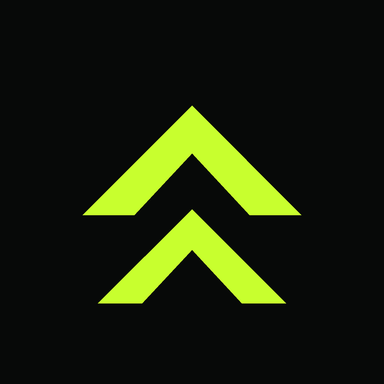
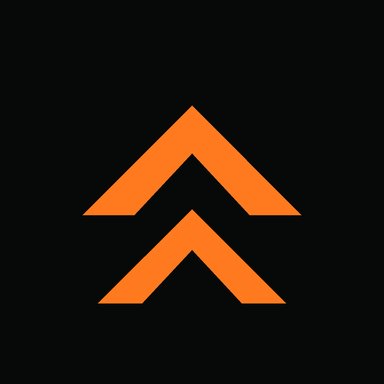
Orange, not yellow, and the score glows instead of sitting in a form
The lime experiment ends on Thulaib's call. The member app returns to Total
Uplift orange, #FF7A1F rather than the staff surface's redder hex, because on a
dark canvas the brand and the danger red must never blur. The lime hexes join
the DEAD list beside the first orange era, so neither identity can leak back.

The knock-on a palette swap always misses: coral could no longer mean attention
one step away from an orange brand, exactly as mint could not mean success
beside green. Attention is now true amber, and the status hues inside the
checks moved with it.

The score card gets the premium treatment without resurrecting the circle or
the combined number it carried: an ember aura breathing from the corner, the
Move bar burning dark orange into light with a soft glow, Fuel and Rest at
lower flame, category still told by intensity and never by a status hue. The
climb itself is now gradient-stroked with a glow, and the Your-progress-so-far
doorway draws it compact in the space its second line of copy used to spend,
including the line that still promised a 90 day grid that retired days ago.

All 18 icon assets regenerated in orange from the same vector.

One check was stranded by its own hard-coded rgb: Hero-accent-on-the-action was
pinned to the lime value. It now resolves the live brand token, so the next
identity change cannot strand it again.

282 checks, green twice at 390px and twice at 1280px in both tracking modes.
guard.py PASS, gate.js machine checks PASS.

Changed region(s): [[0.2188, 0.2812, 0.7812, 0.5625], [0.25, 0.5312, 0.75, 0.8125]]

diff --git a/member/index.html b/member/index.html
@@ -11,7 +11,7 @@
 <link rel="apple-touch-icon" href="apple-touch-icon.png">
 <link rel="icon" href="favicon.svg" type="image/svg+xml">
 <link rel="icon" href="favicon-32.png" sizes="32x32" type="image/png">
-<link rel="mask-icon" href="icon-mono.svg" color="#C8FF2E">
+<link rel="mask-icon" href="icon-mono.svg" color="#FF7A1F">
 <meta name="apple-mobile-web-app-capable" content="yes">
 <meta name="apple-mobile-web-app-status-bar-style" content="black-translucent">
 <meta name="apple-mobile-web-app-title" content="Total Uplift">
@@ -41,10 +41,12 @@
 --sat:env(safe-area-inset-top,0px);
 --sab:env(safe-area-inset-bottom,0px);
 /* ── BRAND (swap these per client) ───────────────────────── */
---brand:#C8FF2E;            /* the one accent: Total Uplift red-orange */
---brand-dark:#A9E800;
+--brand:#FF7A1F;            /* the one accent: Total Uplift orange. Warmer and
+   one step further from red than the staff surface's, deliberately: on a dark
+   canvas "start" and "error" must never blur. */
+--brand-dark:#E85D0A;
 --ink-deep:#0E141B;         /* Total Uplift navy, the app base */
---on-accent:#0A0D08;
+--on-accent:#1C0A03;
 /* ── DERIVED (do not edit) ───────────────────────────────── */
 --brand-soft:color-mix(in srgb,var(--brand) 16%,transparent);
 --brand-glow:color-mix(in srgb,var(--brand) 30%,transparent);
@@ -59,10 +61,12 @@
    fine on a monitor and not fine on a phone held at arm's length in a gym. */
 /* lime measures ~17:1 on the canvas, so unlike the old orange it needs no
    separate text token. It is legible everywhere it appears. */
---brand-txt:#C8FF2E;--txt:#F4F7F3;--muted:#A6AFA8;--faint:#8A938C;
+--brand-txt:#FF8E4D;--txt:#F4F7F3;--muted:#A6AFA8;--faint:#8A938C;
 --line:rgba(255,255,255,.08);--line2:rgba(255,255,255,.05);
 --green:#4FD7B0;--green-soft:rgba(34,181,115,.16);
---amber:#FF826D;--amber-soft:rgba(224,161,27,.16);
+/* AMBER, not coral. Coral beside an orange brand is the same collision mint
+   made beside green: a status hue one step from the accent. */
+--amber:#F7B23B;--amber-soft:rgba(247,178,59,.16);
 --danger:#FF5A4E;--danger-soft:rgba(224,80,58,.16);
 --radius:18px;--r-md:14px;--r-sm:10px;
 --ease:cubic-bezier(.16,1,.3,1);
@@ -122,7 +126,20 @@ input,textarea{font-family:inherit;color:var(--txt)}
 .bar .fi{height:100%;border-radius:99px;transition:width .7s var(--ease)}
 .bar .bn{font-size:11.5px;color:var(--faint);margin-top:5px;line-height:1.45}
 /* the ring is gone, so the indicators take the whole card */
-.score-wrap{display:block}
+.score-wrap{display:block;position:relative;z-index:1}
+/* THE EMBER AURA. One breath of brand light, from the corner, behind everything
+   on the card. Decoration lives on the card, never on the data. */
+.td-score{position:relative;overflow:hidden}
+.td-score::before{content:'';position:absolute;top:-70px;left:-40px;width:260px;height:220px;
+ background:radial-gradient(closest-side,var(--brand-glow),transparent 70%);
+ pointer-events:none;opacity:.8}
+.td-score>*{position:relative;z-index:1}
+/* the flame at three strengths: category by intensity, never by a status hue */
+.bar .fi.move{background:linear-gradient(90deg,var(--brand-dark),var(--brand) 55%,#FFC08A);
+ box-shadow:0 0 14px var(--brand-glow)}
+.bar .fi.fuel{background:linear-gradient(90deg,color-mix(in srgb,var(--brand-dark) 66%,var(--surface-3)),color-mix(in srgb,var(--brand) 66%,var(--surface-3)));
+ box-shadow:0 0 10px color-mix(in srgb,var(--brand) 14%,transparent)}
+.bar .fi.rest{background:linear-gradient(90deg,color-mix(in srgb,var(--brand-dark) 38%,var(--surface-3)),color-mix(in srgb,var(--brand) 38%,var(--surface-3)))}
 /* a hint, not a primary action: the hero above it is the primary action.
    Still a full 44px target. */
 .nextact{display:flex;align-items:center;gap:10px;width:100%;min-height:44px;margin-top:2px;
@@ -455,6 +472,8 @@ input,textarea{font-family:inherit;color:var(--txt)}
 .lookback .lt{font-size:14px;font-weight:750}
 .lookback .ls{font-size:12px;color:var(--muted);margin-top:4px;line-height:1.5}
 .lookback .lg{margin-left:auto;color:var(--faint);flex-shrink:0}
+.lookback .lpath{margin-top:2px;line-height:0}
+.lookback .lpath .upath.cmp{height:20px}
 
 /* ── PLAN: ONE EXERCISE AT A TIME ─────────────────────────── */
 /* collapse is PRESENTATIONAL. Everything still renders, so every action and
@@ -513,6 +532,7 @@ input,textarea{font-family:inherit;color:var(--txt)}
 
 /* ── THE UPLIFT PATH ──────────────────────────────────────── */
 .upath{width:100%;height:110px;display:block;overflow:visible}
+.upath .climb{filter:drop-shadow(0 0 5px var(--brand-glow))}
 .upath.cmp{height:38px}
 .upcap{font-size:11.5px;color:var(--muted);line-height:1.5;margin-top:10px}
 .upwrap{padding:4px 0}
@@ -1855,10 +1875,14 @@ function renderLookback(){
  const el=document.getElementById('tdLookback');if(!el)return;
  const m=DB.get('member');
  const shots=(DB.get('shots')||[]).length;
+ /* the doorway to your progress DRAWS your progress, in the space its second
+    line of copy used to spend on words. And that line still said "90 day
+    grid", which retired when the Path arrived. */
  el.innerHTML='<span style="min-width:0;flex:1">'
   +'<span class="lt">Your progress so far</span>'
-  +'<div class="ls">'+m.day+' days in'+(shots?', '+shots+' progress photos':'')
-  +', and the whole 90 day grid. All in Stats.</div></span>'
+  +'<div class="ls">Day '+m.day+' of '+CFG.programme.days
+   +(shots?' · '+shots+' photo'+(shots===1?'':'s'):'')+' · all in Stats</div>'
+  +'<div class="lpath">'+upliftPath(true)+'</div></span>'
   +'<span class="lg">'+I.arrow+'</span>';
 }
 function renderProvenance(){
@@ -1889,12 +1913,11 @@ function renderToday(){
     programme itself had prescribed, and it took two nested weightings over
     four inputs to explain. Three plain counts replace it. */
  const ring=document.getElementById('tdRing');if(ring)ring.remove();
- const shade={move:'var(--brand)',
-   fuel:'color-mix(in srgb,var(--brand) 68%,var(--surface-3))',
-   rest:'color-mix(in srgb,var(--brand) 40%,var(--surface-3))'};
- /* the number on the row is WHAT WAS COUNTED, never a mark out of a hundred */
+ /* the number on the row is WHAT WAS COUNTED, never a mark out of a hundred.
+    The fill is a class, not an inline colour, so the flame gradient and its
+    glow live in one place in the stylesheet. */
  const bar=x=>'<div class="bar"><div class="t"><span>'+x.n+'</span><b>'+x.v+'</b></div>'
-  +'<div class="tr"><div class="fi" style="width:'+x.pct+'%;background:'+shade[x.k]+'"></div></div>'
+  +'<div class="tr"><div class="fi '+x.k+'" style="width:'+x.pct+'%"></div></div>'
   +(x.note?'<div class="bn">'+x.note+'</div>':'')+'</div>';
  /* CATEGORY, not status: the accent at three strengths tells the three apart
     without any of them claiming good or bad. Rest is simply absent when
@@ -2118,7 +2141,15 @@ function upliftPath(compact){
  g+='<path d="M'+last[0].toFixed(1)+' '+last[1].toFixed(1)+' L'+x(n-1).toFixed(1)+' '+last[1].toFixed(1)+'"'
   +' fill="none" stroke="var(--line2)" stroke-width="1.4" stroke-dasharray="2 3"'
   +' vector-effect="non-scaling-stroke"/>';
- g+='<path d="'+line+'" fill="none" stroke="var(--brand)" stroke-width="2"'
+ /* the climb burns dark into light along its length, and carries a soft glow.
+    The id is unique per draw: two paths on one screen sharing a gradient id
+    would silently paint one of them black. */
+ const uid='upg'+Math.floor((typeof performance!=='undefined'?performance.now():0)*10)%100000+Math.floor(W)+(compact?'c':'f');
+ g='<defs><linearGradient id="'+uid+'" x1="0" y1="0" x2="1" y2="0">'
+  +'<stop offset="0" stop-color="var(--brand-dark)"/>'
+  +'<stop offset=".62" stop-color="var(--brand)"/>'
+  +'<stop offset="1" stop-color="#FFC08A"/></linearGradient></defs>'+g;
+ g+='<path class="climb" d="'+line+'" fill="none" stroke="url(#'+uid+')" stroke-width="2"'
   +' stroke-linejoin="round" stroke-linecap="round" vector-effect="non-scaling-stroke"/>';
  if(!compact){
   /* milestones on the axis, labelled, so the climb has landmarks */
@@ -3014,7 +3045,7 @@ function receiptFor(month){
  const mem=DB.get('member');
  const w=window.open('','_blank');
  if(!w){toast('Allow pop-ups to open your receipt');return;}
- const brand=getComputedStyle(document.documentElement).getPropertyValue('--brand').trim()||'#C8FF2E';
+ const brand=getComputedStyle(document.documentElement).getPropertyValue('--brand').trim()||'#FF7A1F';
  w.document.write('<!doctype html><html><head><meta charset="utf-8"><meta name="viewport" content="width=device-width,initial-scale=1">'
  +'<title>Receipt '+month+'</title><style>*{margin:0;box-sizing:border-box;font-family:Arial,Helvetica,sans-serif}'
  +'body{background:#eee;color:#1a1a1a;padding:18px}.p{max-width:520px;margin:0 auto;background:#fff;padding:26px}'
@@ -4401,8 +4432,15 @@ async function runSelfTest(){
    const bgs=getComputedStyle(sess).backgroundColor+getComputedStyle(sess).backgroundImage;
    ok('Hero: the panel is a dark card, not a lime block',bgs.indexOf('200, 255, 46')<0,bgs.slice(0,60));
    const goBtn=sess.querySelector('.go');
-   ok('Hero: the lime is spent on the ACTION',
-     !!goBtn&&getComputedStyle(goBtn).backgroundColor.indexOf('200, 255, 46')>-1);
+   /* pinned to the LIVE brand token, not to a hard-coded rgb: this check was
+      stranded once by the lime era ending and once is enough */
+   (function(){
+    const want=(function(){const d=document.createElement('div');d.style.color='var(--brand)';
+     document.body.appendChild(d);const c=getComputedStyle(d).color;d.remove();return c;})();
+    ok('Hero: the accent is spent on the ACTION',
+      !!goBtn&&getComputedStyle(goBtn).backgroundImage.indexOf('gradient')>-1
+      ||(!!goBtn&&getComputedStyle(goBtn).backgroundColor===want));
+   })();
    ok('Hero: the action is a real target',!!goBtn&&goBtn.getBoundingClientRect().height>=48,
      goBtn?Math.round(goBtn.getBoundingClientRect().height)+'px':'missing');
   })();
@@ -4466,7 +4504,7 @@ async function runSelfTest(){
   (function(){
    go('today');
    const bars=Array.from(document.querySelectorAll('#tdBars .fi'));
-   const status=['255, 130, 109','255, 90, 78','79, 215, 176'];  /* coral, red, mint */
+   const status=['247, 178, 59','255, 90, 78','79, 215, 176'];  /* amber, red, mint */
    const borrowed=bars.filter(b=>{
     const bg=getComputedStyle(b).backgroundColor+getComputedStyle(b).backgroundImage;
     return status.some(s=>bg.indexOf(s)>-1);});
@@ -4479,10 +4517,10 @@ async function runSelfTest(){
     const p=document.querySelector('#pg-today .prov.unset');
     if(p){const c=getComputedStyle(p).color;
      ok('Colour: asking a question is not painted as a warning',
-       c.indexOf('255, 130, 109')<0&&c.indexOf('255, 90, 78')<0,c);}
+       c.indexOf('247, 178, 59')<0&&c.indexOf('255, 90, 78')<0,c);}
    })();
     ok('Colour: a perfect score is not painted as a warning',
-     !rest||getComputedStyle(rest).backgroundColor.indexOf('255, 130, 109')<0);
+     !rest||getComputedStyle(rest).backgroundColor.indexOf('247, 178, 59')<0);
   })();
   /* THE REBRAND IS COMPLETE, OR IT IS A BUG.
      The first palette pass swapped the hexes I expected the file to hold, not
@@ -4490,9 +4528,11 @@ async function runSelfTest(){
      dark orange plus blue-grey borders on every card. One contrast failure
      exposed seven leftovers. This makes a half-done palette impossible. */
   (function(){
+   /* two dead eras now: the first orange, and the lime experiment */
    const DEAD=['#EF3A1B','#F86E52','#C22C10','#B82A10','#E0503A','#E05555',
                '#E0A11B','#D97706','#22B573','#16A34A','#22303D','#1B2733',
-               '#2A3947','#3A4A58','#243341','#0B1117','#131C25','#18232E'];
+               '#2A3947','#3A4A58','#243341','#0B1117','#131C25','#18232E',
+               '#C8FF2E','#A9E800','#FF826D'];
    /* stylesheets ONLY. innerHTML includes this script, so the DEAD array below
       would match itself and the check could never pass. */
    const src=Array.from(document.querySelectorAll('style')).map(s=>s.textContent).join('');
